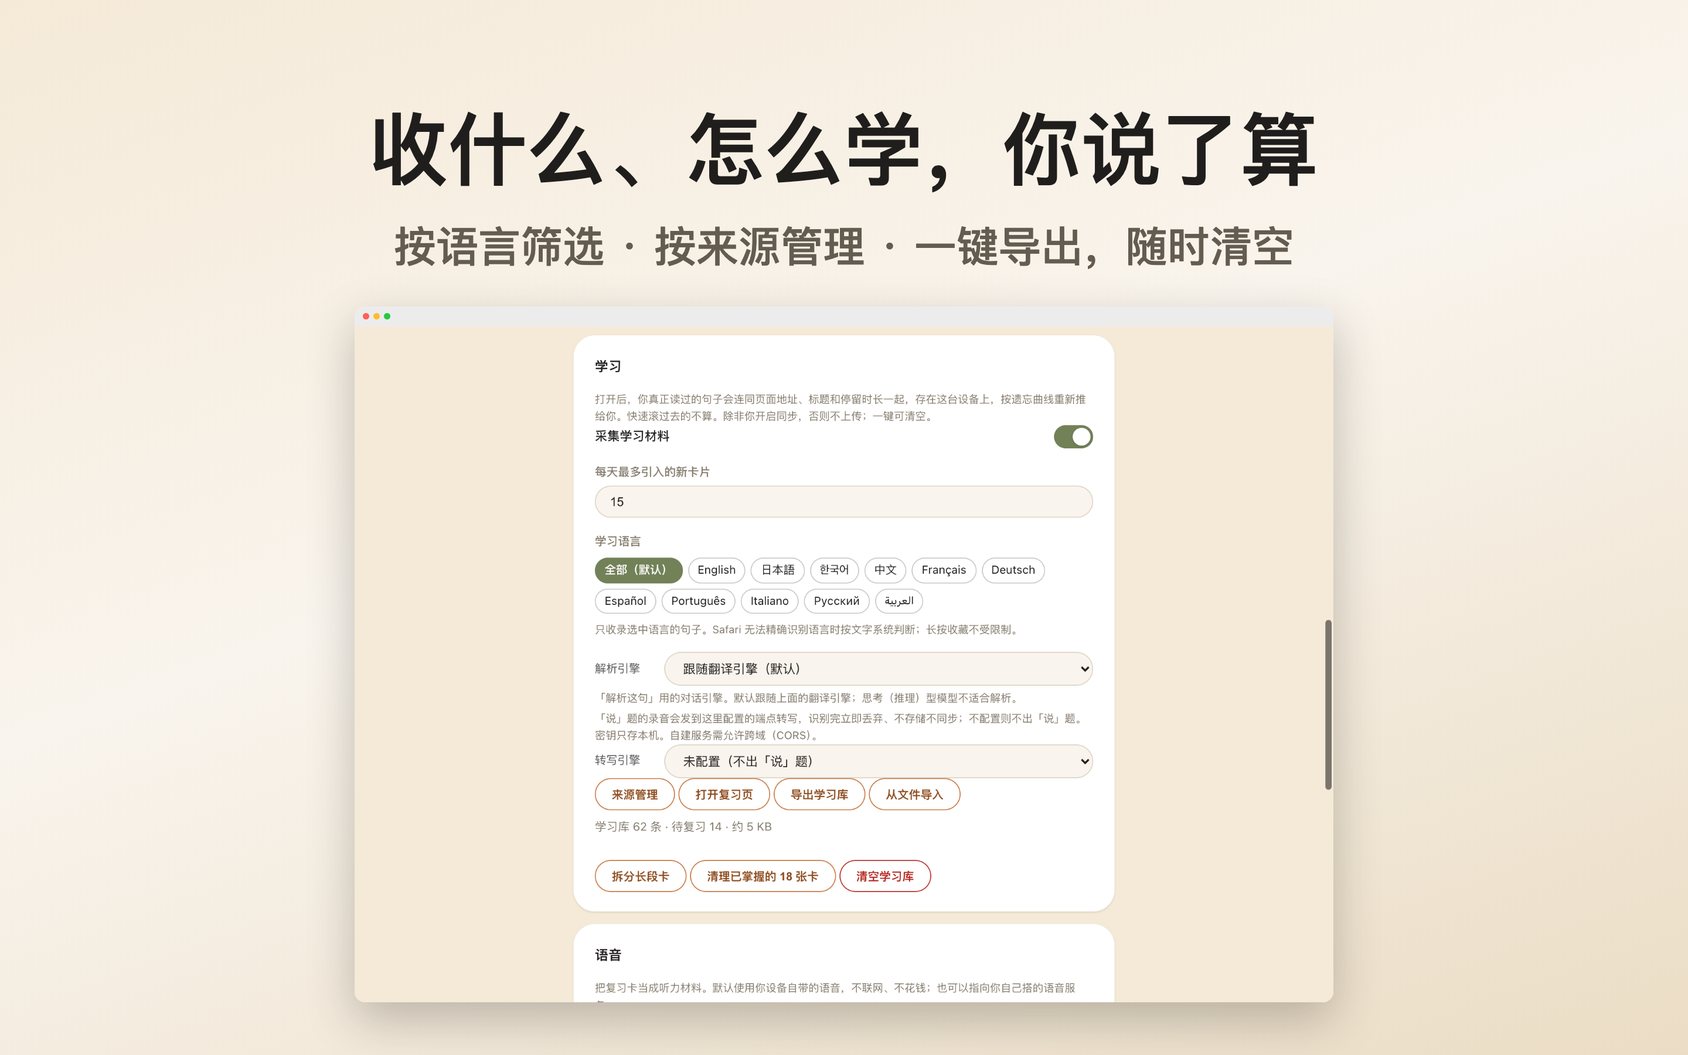
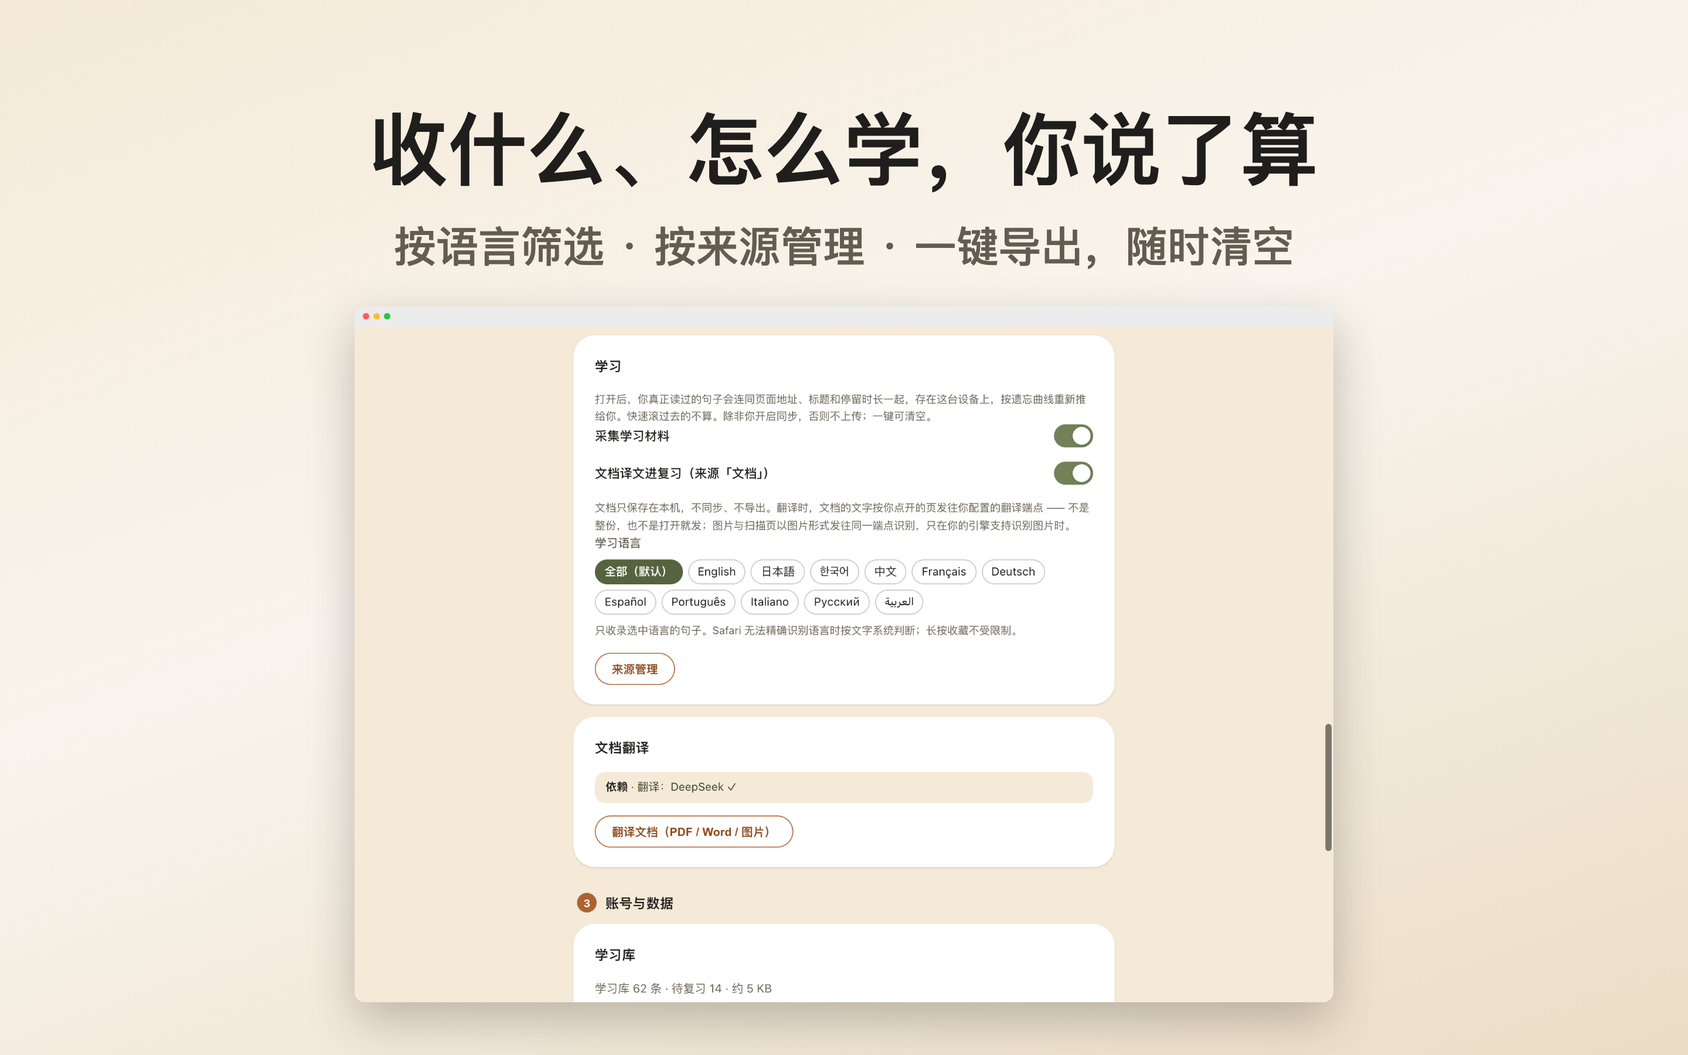
release: 1.12.0 —— 设置体验重设计；商店文案写明对话 · 实时字幕需要 iOS 26 / macOS 26
- 版本号 1.12.0（package.json + manifest，providers.gen.js 的 MT_VERSION 随之）
- store-assets/release-notes-1.12.0.md：国际版 15 份 + 中国版 1 份
- store-assets/aso.md：实时字幕与对话听译两段在 16 个 locale 里改成「在设备上识别、需要
  iOS 26 / macOS 26」（云端实时转写已下线，「可选设备内置」不再成立）
- cws-listing / amo-listing：提到 App 两项实时功能的句子都补上系统要求
- screenshots-cn：设置页按四节重排后重拍（capture.js + render.sh，21 张）
- CHANGELOG.md 由发布说明重出

Claude-Session: https://claude.ai/code/session_01Uvoa7SCxLWwJVnUBjjHPUE

diff --git a/extension/content/providers.gen.js b/extension/content/providers.gen.js
@@ -1,7 +1,7 @@
 // AUTO-GENERATED by build.js from build/providers.config.js + build/model-params.config.js — do not edit by hand.
 window.MT_GRANT = {"vendor":"openrouter","vendorLabel":"OpenRouter","limitUsd":0.2,"claimUrl":"https://cavezcufztzqsohpjmup.supabase.co/functions/v1/bt-grant","models":{"chat":"deepseek/deepseek-v4-flash"}};
 window.MT_FLAVOR = "global";
-window.MT_VERSION = "1.11.0";
+window.MT_VERSION = "1.12.0";
 window.MT_TELEMETRY = {"url":"https://cavezcufztzqsohpjmup.supabase.co/functions/v1/bt-ingest","spec":{"common":{"install_id":"uuid","ts":"iso","v":"semver","flavor":["global"],"host":["safari","chrome","firefox","app"],"device":["iPhone","iPad","Mac","Windows","Android","Linux",""],"ui":"lang"},"events":{"installed":{},"heartbeat":{},"onboarding_done":{"surface":["ext","app"]},"engine_set":{"provider":"id"},"engine_test":{"slot":["chat","notes","tts","stt"],"result":["ok","fail"],"code":["no_key","no_base","no_path","bad_url","no_engine","unknown_provider","network","timeout","http","bad_output","empty_output","empty_audio","reasoning_starved","device_no_file","other"]},"translate_ok":{"provider":"id","kind":["page","subtitle","doc"],"ms":"int"},"translate_fail":{"provider":"id","code":["timeout","network","http","reasoning_starved","no_base","unknown_provider","credit_exhausted","grant_unavailable","model_not_allowed","auth"],"status":"int","route":["direct","proxy",""],"ms":"int"},"subtitle_on":{"site":["youtube","substack","podcast","other"]},"capture_first":{},"doc_open":{"kind":["pdf","docx","txt","image"],"pages":"int"},"review_session":{"graded":"int"},"grant_claimed":{},"grant_exhausted":{},"sync_on":{},"rate_prompt":{"action":["shown","tap","dismiss"]},"ext_banner":{"action":["shown","setup","done"]},"asr_entry":{"surface":["popup","notice","pill","app_home","popup_app_row"],"result":["started","no_media","no_engine","no_live","gesture_needed","to_app"]},"telemetry_off":{}},"limits":{"batch":50,"eventBytes":1024,"bodyBytes":65536,"perMinute":60,"strMax":64}}};
 window.MT_SYNC_ENABLED = true;
 window.MT_DEFAULT_TARGET_LANG = "zh-CN";

diff --git a/store-assets/release-notes-1.12.0.md b/store-assets/release-notes-1.12.0.md
@@ -1,0 +1,152 @@
+# 1.12.0 发布说明（国际版 15 份 + 中国版 1 份 · iOS 与 macOS 同文）
+
+> 这一版是「设置体验重设计」：设置页按用途分成四节（引擎与密钥 · 功能 · 账号与数据 · 关于），每个功能块首行有一条
+> 「依赖」行；对话 · 实时听译与实时字幕固定走设备内置识别（云端实时转写下线），**需要 iOS 26 / macOS 26**（App 本身
+> 的系统要求不变，仍是 iOS 16.4 / macOS 13.3）；设备内置朗读的离线模型有了看得见的下载入口与进度；对话语言只列本机
+> 识别器支持的，并显示识别语言包是否就位。扩展侧同样按四节重排、一键配置卡去掉「实时转写（可选）」。
+> iOS 与 macOS 读同一份，GitHub Release 与更新日志也从这里生成。商店文案里不点名具体服务商。
+> 中国版与国际版同文（这一版没有只属于一边的修复）。
+
+## 国际版 · zh-Hans
+
+```
+· 设置页重新整理：按用途分成「引擎与密钥 · 功能 · 账号与数据 · 关于」四节；每个功能块第一行写清它依赖哪些引擎、配好了没有，一键跳到对应设置。
+· 对话 · 实时听译与实时字幕固定使用设备内置识别，声音只在你的设备上识别；这两项需要 iOS 26 / macOS 26。
+· 设备内置朗读的离线模型有了看得见的下载入口和进度；对话语言只列这台设备支持的，并显示识别语言包是否就位。
+· 修复：未登录时也能打开设置页。
+```
+
+## 国际版 · en-US
+
+```
+· Settings reorganized into four sections by purpose: Engines & keys · Features · Account & data · About. Each feature now shows which engines it depends on and whether they are set up, with a one-tap jump to fix it.
+· Conversation · live interpreter and Live Subtitles now always use on-device recognition, so audio never leaves your device. These two need iOS 26 / macOS 26.
+· The offline voice model for on-device speech has a visible download button with progress; conversation languages list only what this device supports and show whether the recognition language pack is installed.
+· Fix: Settings can be opened without signing in.
+```
+
+## 中国版 · zh-Hans
+
+```
+· 设置页重新整理：按用途分成「引擎与密钥 · 功能 · 账号与数据 · 关于」四节；每个功能块第一行写清它依赖哪些引擎、配好了没有，一键跳到对应设置。
+· 对话 · 实时听译与实时字幕固定使用设备内置识别，声音只在你的设备上识别；这两项需要 iOS 26 / macOS 26。
+· 设备内置朗读的离线模型有了看得见的下载入口和进度；对话语言只列这台设备支持的，并显示识别语言包是否就位。
+· 修复：未登录时也能打开设置页。
+```
+
+## 国际版 · zh-Hant
+
+```
+· 設定頁重新整理：依用途分成「引擎與金鑰 · 功能 · 帳號與資料 · 關於」四節；每個功能區塊第一行寫清它依賴哪些引擎、設好了沒有，一鍵跳到對應設定。
+· 對話 · 即時聽譯與即時字幕固定使用裝置內建辨識，聲音只在你的裝置上辨識；這兩項需要 iOS 26 / macOS 26。
+· 裝置內建朗讀的離線模型有了看得見的下載入口與進度；對話語言只列這台裝置支援的，並顯示辨識語言包是否就位。
+· 修正：未登入時也能開啟設定頁。
+```
+
+## 国际版 · ja
+
+```
+· 設定画面を用途別の 4 セクションに整理：エンジンとキー · 機能 · アカウントとデータ · このアプリについて。各機能の先頭に、依存するエンジンと設定済みかどうかを表示し、ワンタップで該当設定へ移動できます。
+· 会話 · リアルタイム通訳とライブ字幕は常に端末内蔵の音声認識を使い、音声は端末の外に出ません。この 2 つは iOS 26 / macOS 26 が必要です。
+· 端末内蔵の読み上げ用オフラインモデルに、進捗の見えるダウンロードボタンを追加。会話の言語はこの端末が対応するものだけを表示し、認識用言語パックの有無も表示します。
+· 修正：サインインしていなくても設定を開けるようになりました。
+```
+
+## 国际版 · ko
+
+```
+· 설정 화면을 용도별 4개 섹션으로 정리: 엔진과 키 · 기능 · 계정과 데이터 · 정보. 각 기능의 첫 줄에 어떤 엔진에 의존하는지와 설정 여부를 표시하고, 한 번 눌러 해당 설정으로 이동합니다.
+· 대화 · 실시간 통역과 실시간 자막은 항상 기기 내장 음성 인식을 사용하므로 음성이 기기 밖으로 나가지 않습니다. 이 두 기능은 iOS 26 / macOS 26이 필요합니다.
+· 기기 내장 읽어주기용 오프라인 모델에 진행률이 보이는 다운로드 버튼을 추가했습니다. 대화 언어는 이 기기가 지원하는 것만 표시하고, 인식 언어 팩 설치 여부도 보여줍니다.
+· 수정: 로그인하지 않아도 설정을 열 수 있습니다.
+```
+
+## 国际版 · de-DE
+
+```
+· Einstellungen neu gegliedert in vier Bereiche nach Zweck: Engines & Schlüssel · Funktionen · Konto & Daten · Info. Jede Funktion zeigt in der ersten Zeile, von welchen Engines sie abhängt und ob diese eingerichtet sind – mit Sprung zur passenden Einstellung.
+· Gespräch · Live-Dolmetscher und Live-Untertitel nutzen jetzt immer die geräteinterne Erkennung, der Ton verlässt dein Gerät nicht. Beide benötigen iOS 26 / macOS 26.
+· Das Offline-Stimmmodell für die geräteinterne Sprachausgabe hat jetzt einen sichtbaren Download mit Fortschritt; die Gesprächssprachen zeigen nur, was dieses Gerät unterstützt, und ob das Sprachpaket zur Erkennung installiert ist.
+· Fehlerbehebung: Die Einstellungen lassen sich auch ohne Anmeldung öffnen.
+```
+
+## 国际版 · fr-FR
+
+```
+· Réglages réorganisés en quatre sections par usage : Moteurs et clés · Fonctions · Compte et données · À propos. Chaque fonction indique en première ligne les moteurs dont elle dépend et s'ils sont configurés, avec un raccourci vers le réglage concerné.
+· Conversation · interprète en direct et sous-titres en direct utilisent désormais toujours la reconnaissance intégrée à l'appareil ; le son ne quitte jamais votre appareil. Ces deux fonctions nécessitent iOS 26 / macOS 26.
+· Le modèle vocal hors ligne de la voix intégrée dispose d'un bouton de téléchargement visible avec progression ; les langues de conversation ne listent que celles prises en charge par cet appareil et indiquent si le pack de reconnaissance est installé.
+· Correction : les réglages s'ouvrent aussi sans être connecté.
+```
+
+## 国际版 · es-ES
+
+```
+· Ajustes reorganizados en cuatro secciones por uso: Motores y claves · Funciones · Cuenta y datos · Acerca de. Cada función muestra en su primera línea de qué motores depende y si están configurados, con un salto directo al ajuste correspondiente.
+· Conversación · intérprete en directo y Subtítulos en directo usan ahora siempre el reconocimiento integrado en el dispositivo; el audio nunca sale de él. Ambos requieren iOS 26 / macOS 26.
+· El modelo de voz sin conexión de la voz integrada tiene un botón de descarga visible con progreso; los idiomas de conversación solo muestran los que admite este dispositivo e indican si el paquete de idioma de reconocimiento está instalado.
+· Corrección: los ajustes se pueden abrir sin iniciar sesión.
+```
+
+## 国际版 · pt-BR
+
+```
+· Ajustes reorganizados em quatro seções por finalidade: Motores e chaves · Recursos · Conta e dados · Sobre. Cada recurso mostra na primeira linha de quais motores depende e se estão configurados, com um atalho para o ajuste certo.
+· Conversa · intérprete ao vivo e Legendas ao vivo agora usam sempre o reconhecimento integrado ao aparelho; o áudio nunca sai dele. Os dois exigem iOS 26 / macOS 26.
+· O modelo de voz offline da voz integrada ganhou um botão de download visível com progresso; os idiomas de conversa listam só o que este aparelho suporta e mostram se o pacote de idioma de reconhecimento está instalado.
+· Correção: os ajustes abrem mesmo sem login.
+```
+
+## 国际版 · ru
+
+```
+· Настройки перегруппированы в четыре раздела по назначению: Движки и ключи · Функции · Аккаунт и данные · О программе. У каждой функции в первой строке видно, от каких движков она зависит и настроены ли они, с переходом к нужной настройке.
+· Разговор · живой переводчик и живые субтитры теперь всегда используют встроенное распознавание, звук не покидает устройство. Обеим функциям нужны iOS 26 / macOS 26.
+· У офлайн-модели голоса для встроенной озвучки появилась заметная кнопка загрузки с прогрессом; языки разговора показывают только поддерживаемые этим устройством и наличие языкового пакета распознавания.
+· Исправлено: настройки открываются и без входа в аккаунт.
+```
+
+## 国际版 · ar-SA
+
+```
+· أُعيد ترتيب الإعدادات في أربعة أقسام حسب الغرض: المحرّكات والمفاتيح · الميزات · الحساب والبيانات · حول. يعرض كل قسم ميزة في سطره الأول المحرّكات التي يعتمد عليها وما إذا كانت مضبوطة، مع انتقال بلمسة واحدة إلى الإعداد المناسب.
+· المحادثة · المترجم الفوري والترجمة المباشرة يستخدمان الآن دائمًا التعرّف المدمج في الجهاز، فلا يخرج الصوت من جهازك. تحتاج هاتان الميزتان إلى iOS 26 / macOS 26.
+· صار لنموذج الصوت دون اتصال الخاص بالنطق المدمج زر تنزيل ظاهر مع شريط تقدّم؛ وتعرض لغات المحادثة ما يدعمه هذا الجهاز فقط مع حالة حزمة لغة التعرّف.
+· إصلاح: يمكن فتح الإعدادات دون تسجيل الدخول.
+```
+
+## 国际版 · it
+
+```
+· Impostazioni riorganizzate in quattro sezioni per scopo: Motori e chiavi · Funzioni · Account e dati · Info. Ogni funzione mostra nella prima riga da quali motori dipende e se sono configurati, con un salto diretto all'impostazione giusta.
+· Conversazione · interprete dal vivo e Sottotitoli dal vivo usano ora sempre il riconoscimento integrato nel dispositivo: l'audio non lo lascia mai. Entrambe richiedono iOS 26 / macOS 26.
+· Il modello vocale offline della voce integrata ha un pulsante di download visibile con avanzamento; le lingue di conversazione elencano solo quelle supportate da questo dispositivo e indicano se il pacchetto lingua di riconoscimento è installato.
+· Correzione: le impostazioni si aprono anche senza accesso.
+```
+
+## 国际版 · tr
+
+```
+· Ayarlar amaca göre dört bölüme ayrıldı: Motorlar ve anahtarlar · Özellikler · Hesap ve veriler · Hakkında. Her özellik ilk satırında hangi motorlara bağlı olduğunu ve bunların ayarlanıp ayarlanmadığını gösterir; tek dokunuşla ilgili ayara gidilir.
+· Sohbet · canlı tercüman ve Canlı Altyazı artık her zaman cihaz içi tanımayı kullanır; ses cihazınızdan çıkmaz. Bu ikisi iOS 26 / macOS 26 gerektirir.
+· Cihaz içi seslendirmenin çevrimdışı ses modeli için ilerleme gösteren görünür bir indirme düğmesi eklendi; sohbet dilleri yalnızca bu cihazın desteklediklerini listeler ve tanıma dil paketinin yüklü olup olmadığını gösterir.
+· Düzeltme: Ayarlar oturum açmadan da açılabiliyor.
+```
+
+## 国际版 · vi
+
+```
+· Sắp xếp lại Cài đặt thành bốn mục theo mục đích: Công cụ và khóa · Tính năng · Tài khoản và dữ liệu · Giới thiệu. Dòng đầu mỗi tính năng cho biết nó phụ thuộc công cụ nào và đã cài đặt chưa, chạm một lần để đến đúng cài đặt.
+· Hội thoại · phiên dịch trực tiếp và Phụ đề trực tiếp giờ luôn dùng nhận dạng ngay trên thiết bị; âm thanh không rời khỏi thiết bị. Hai tính năng này cần iOS 26 / macOS 26.
+· Mô hình giọng nói ngoại tuyến của giọng đọc trên thiết bị có nút tải xuống hiển thị tiến độ; ngôn ngữ hội thoại chỉ liệt kê những gì thiết bị này hỗ trợ và cho biết gói ngôn ngữ nhận dạng đã cài chưa.
+· Sửa lỗi: có thể mở Cài đặt mà không cần đăng nhập.
+```
+
+## 国际版 · pl
+
+```
+· Ustawienia uporządkowane w cztery sekcje według przeznaczenia: Silniki i klucze · Funkcje · Konto i dane · Informacje. Każda funkcja pokazuje w pierwszym wierszu, od jakich silników zależy i czy są skonfigurowane, z przejściem do właściwego ustawienia.
+· Rozmowa · tłumacz na żywo i Napisy na żywo korzystają teraz zawsze z rozpoznawania na urządzeniu – dźwięk nie opuszcza urządzenia. Obie funkcje wymagają iOS 26 / macOS 26.
+· Model głosu offline dla wbudowanego czytania ma widoczny przycisk pobierania z postępem; języki rozmowy pokazują tylko te obsługiwane przez to urządzenie oraz czy pakiet językowy rozpoznawania jest zainstalowany.
+· Poprawka: ustawienia można otworzyć bez logowania.
+```

diff --git a/store-assets/cws-listing.md b/store-assets/cws-listing.md
@@ -21,7 +21,7 @@ READ IT, KEEP IT — Turn on learning and the sentences you actually read become
 YOUR ENGINE — Plug in your own AI service key or any compatible endpoint; once signed in, you can also try a small free credit from us.
 PRIVACY, SPELLED OUT — No account needed. Your keys and settings stay in your browser. With your own key, text goes straight to the provider you picked; with the free credit it passes through our relay and is not stored. We send anonymous usage events (which features are used, never page content), off in one switch. Multi-device sync is optional, off until you sign in. Open source.
 
-Also on iPhone, iPad and Mac: the BelliedMonkey Translator app adds Live Subtitles for anything playing on the device and a conversation interpreter.
+Also on iPhone, iPad and Mac: the BelliedMonkey Translator app adds Live Subtitles for anything playing on the device and a conversation interpreter. Both recognise speech on the device and need iOS 26 / macOS 26.
 
 Website: https://belliedmonkey.cc
 ```
@@ -38,7 +38,7 @@ Website: https://belliedmonkey.cc
 【引擎你来选】填入你自己的 AI 服务密钥，或任何兼容的自定义接口；登录后也可以先用我们提供的一小份免费额度。
 【隐私说清楚】不需要账号，密钥与设置只存在你的浏览器里。用自己的密钥时，文字直接发往你选的服务商；用免费额度时经我们的中继转发、不保存。会发送匿名用量事件（用了哪些功能，不含网页内容），一个开关即可关闭。多设备同步是可选的，登录后才开启。开源。
 
-iPhone、iPad 与 Mac 上的大肚猴翻译 App 还有「实时字幕」（给设备上正在播放的声音配双语字幕）和「对话 · 实时听译」。
+iPhone、iPad 与 Mac 上的大肚猴翻译 App 还有「实时字幕」（给设备上正在播放的声音配双语字幕）和「对话 · 实时听译」。两者都在设备上识别语音，需要 iOS 26 / macOS 26。
 
 官网：https://belliedmonkey.cc
 ```

diff --git a/CHANGELOG.md b/CHANGELOG.md
@@ -3,6 +3,22 @@
 > **生成的文件，不要手改。** 来源是 `store-assets/release-notes-*.md`（App Store「新功能」栏的唯一真源）；
 > 改内容请改那里，然后跑 `node scripts/gen-changelog.js`。日期是该版发布说明首次进仓库的那天。
 
+## 1.12.0
+
+- Settings reorganized into four sections by purpose: Engines & keys · Features · Account & data · About. Each feature now shows which engines it depends on and whether they are set up, with a one-tap jump to fix it.
+- Conversation · live interpreter and Live Subtitles now always use on-device recognition, so audio never leaves your device. These two need iOS 26 / macOS 26.
+- The offline voice model for on-device speech has a visible download button with progress; conversation languages list only what this device supports and show whether the recognition language pack is installed.
+- Fix: Settings can be opened without signing in.
+
+<details><summary>中文</summary>
+
+- 设置页重新整理：按用途分成「引擎与密钥 · 功能 · 账号与数据 · 关于」四节；每个功能块第一行写清它依赖哪些引擎、配好了没有，一键跳到对应设置。
+- 对话 · 实时听译与实时字幕固定使用设备内置识别，声音只在你的设备上识别；这两项需要 iOS 26 / macOS 26。
+- 设备内置朗读的离线模型有了看得见的下载入口和进度；对话语言只列这台设备支持的，并显示识别语言包是否就位。
+- 修复：未登录时也能打开设置页。
+
+</details>
+
 ## 1.11.0 — 2026-09-15
 
 - Live Subtitles: bilingual subtitles for whatever your device is playing. On Mac, a floating subtitle bar over any app and full-screen video (macOS 14.4 or later); on iPhone, a picture-in-picture window over any app.
